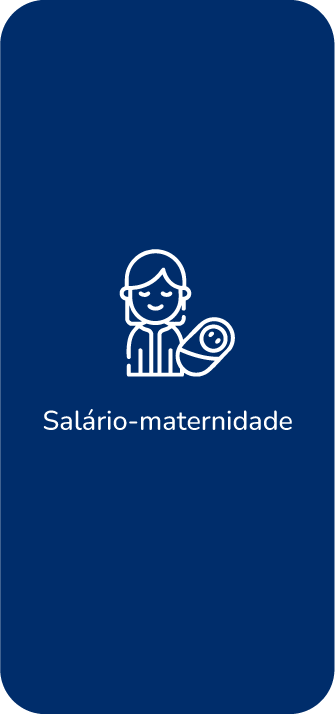
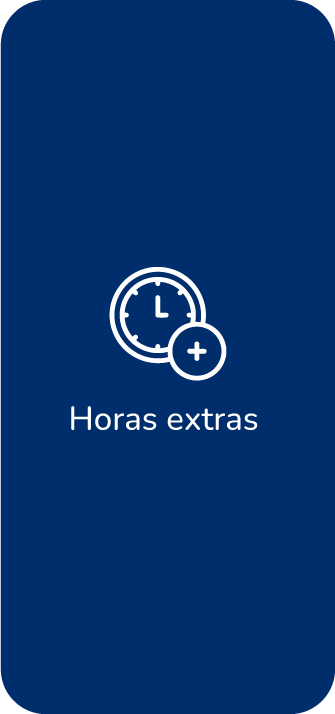
diagramação uc 05

diff --git a/01_beneficios/index.html b/01_beneficios/index.html
@@ -176,6 +176,7 @@
                         <button type="button" data-bs-target="#carousel-01" data-bs-slide-to="6" class="indicador" aria-label="Slide 7"></button>
                         <button type="button" data-bs-target="#carousel-01" data-bs-slide-to="7" class="indicador" aria-label="Slide 8"></button>
                         <button type="button" data-bs-target="#carousel-01" data-bs-slide-to="8" class="indicador" aria-label="Slide 9"></button>
+                        <button type="button" data-bs-target="#carousel-01" data-bs-slide-to="9" class="indicador" aria-label="Slide 10"></button>
                     </div>
                     <img class="img-celular" src="img/celular.png">
                     <div class="carousel-inner">
@@ -205,6 +206,9 @@
                         </div>
                         <div class="carousel-item">
                             <img class="img-fluid d-block mx-auto" src="img/slide09.png">
+                        </div>
+                        <div class="carousel-item">
+                            <img class="img-fluid d-block mx-auto" src="img/slide10.png">
                         </div>
                     </div>
                 </div>

diff --git a/03_beneficios_opcionais/css/custom.css b/03_beneficios_opcionais/css/custom.css
@@ -39,6 +39,7 @@ body{
     border-color: #0E4989;
     color: #0E4989;
     font-size: 14px;
+    border-radius: 40px;
 }
 .painel-beneficios button:hover>span{
     background-color: #0E4989;
